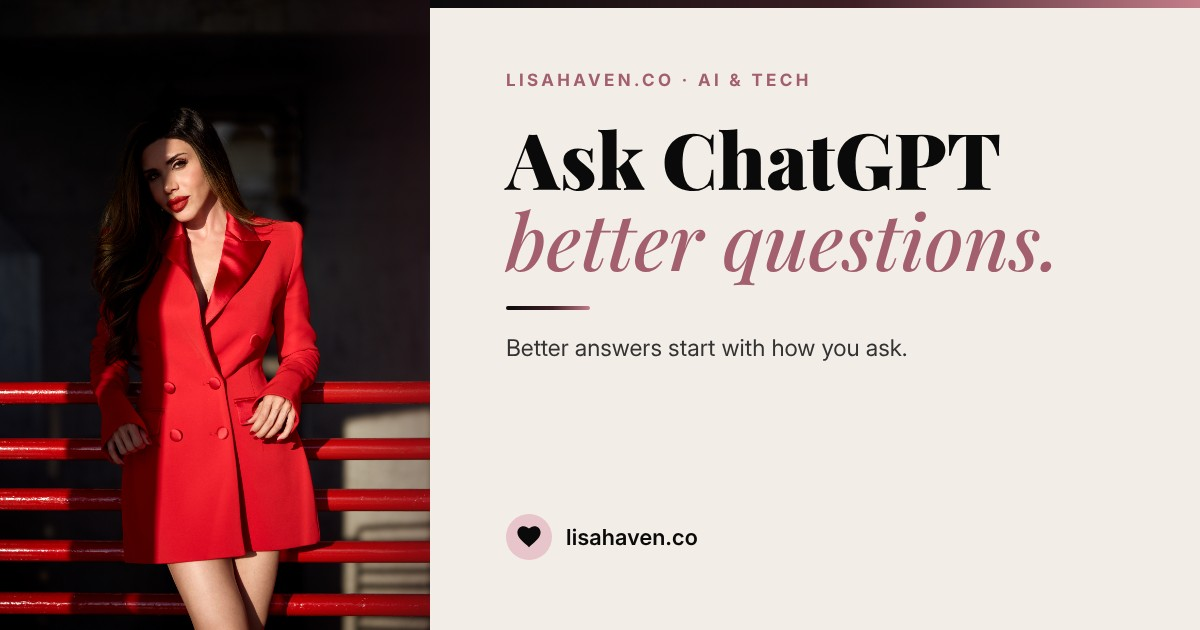
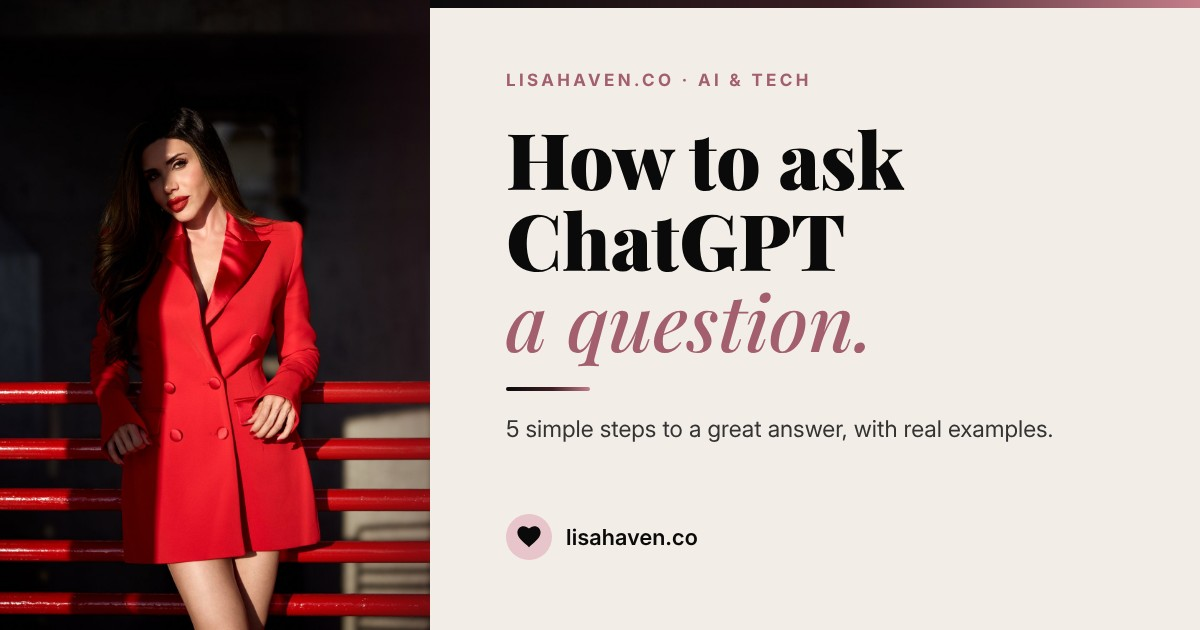
Refresh: How to Ask ChatGPT a Question (and Get a Great Answer)
Full 9 minute rewrite of the ranking ChatGPT post: 5 steps, before and after prompt boxes, chart, cheat sheet, FAQ, poll and quote. New branded cover, 4 pins and share card. Adds an optional Last Updated field so refreshed posts show a fresh date to Google.

Claude-Session: https://claude.ai/code/session_0169LMnWxYji379rbtG2jus4

diff --git a/build.js b/build.js
@@ -132,6 +132,7 @@ if (fs.existsSync(POSTS_DIR)) {
       excerpt: meta.excerpt || '',
       seoTitle: meta.seoTitle || '',
       metaDescription: meta.metaDescription || '',
+      updated: meta.updated || '',
       image: meta.image || '',
       gallery: asList(meta.gallery),
       draft: isDraft(meta),
@@ -303,7 +304,7 @@ try {
     { loc: SITE + '/privacy-policy', priority: '0.2' }
   ];
   live.filter(p => p && p.slug && !p.draft).forEach(p => {
-    urls.push({ loc: SITE + '/blog/' + encodeURIComponent(p.slug) + '/', lastmod: day(p.date), priority: '0.9' });
+    urls.push({ loc: SITE + '/blog/' + encodeURIComponent(p.slug) + '/', lastmod: day(p.updated || p.date), priority: '0.9' });
   });
   const xml = '<?xml version="1.0" encoding="UTF-8"?>\n'
     + '<urlset xmlns="http://www.sitemaps.org/schemas/sitemap/0.9">\n'
@@ -383,7 +384,7 @@ try {
         description: desc,
         image: [img],
         datePublished: published || undefined,
-        dateModified: published || undefined,
+        dateModified: iso(p.updated) || published || undefined,
         author: { '@type': 'Person', name: 'Lisa Haven', url: SITE + '/' },
         publisher: { '@type': 'Person', name: 'Lisa Haven', url: SITE + '/' },
         mainEntityOfPage: { '@type': 'WebPage', '@id': url },

diff --git a/_posts/2026-07-03-how-to-ask-chatgpt-better-questions-it-is-not-what-you-ask-it-is-how-you-ask.md b/_posts/2026-07-03-how-to-ask-chatgpt-better-questions-it-is-not-what-you-ask-it-is-how-you-ask.md
@@ -1,82 +1,214 @@
 ---
 title: "How to Ask ChatGPT a Question (and Get a Great Answer)"
-seoTitle: "How to Ask ChatGPT a Question and Get Great Answers"
-metaDescription: "Learn how to ask ChatGPT a question the right way. Use 4 simple ingredients and copy my before and after examples to get clear, useful answers every time."
-excerpt: "How to ask ChatGPT a question the right way: 4 simple ingredients and real before and after examples that get you clear, useful answers every time."
-category: Business Tips
-emoji: ✨
+category: AI & Tech
+emoji: 🧠
 date: 2026-07-03T11:43:00.000-04:00
-readTime: 5 min read
-image: /images/uploads/0i4a8457.jpg
+updated: 2026-10-28T21:30:00.000-04:00
+readTime: 9 min read
+excerpt: "How to ask ChatGPT a question the right way: 5 simple steps, real before and after prompts from my 3 companies, and a cheat sheet you can copy."
+seoTitle: "How to Ask ChatGPT a Question and Get a Great Answer"
+metaDescription: "How to ask ChatGPT a question and get a great answer: 5 simple steps, real before and after prompts from my 3 companies, and easy copy and paste examples."
+image: /images/uploads/how-to-ask-chatgpt-a-question-cover.jpg
+draft: false
 ---
-If you've ever typed a question into ChatGPT and gotten back an answer that felt generic, flat or just plain wrong, the problem is almost never the tool. It's the question. Here is the short answer on how to ask ChatGPT a question: tell it who to be, give it your situation, say exactly what you want back, and set your limits. Learning to ask this way is the fastest way I know to turn artificial intelligence from a toy into a real business partner, and most people were never taught how. I use artificial intelligence every day to run 3 companies as a mother of 3, and I built an entire platform around one belief: what matters most is HOW you ask.
+This week I asked ChatGPT how to grow my blog. I gave it my real goal, my real limits and what I was already doing. 1 of the ideas it gave back stopped me: write AI case studies for the companies whose tools I already use. I am working on that right now.
 
-## Why Your ChatGPT Answers Feel Generic
+That answer was only as good as my question. A lazy question gets you the same 10 tips everyone gets.
 
-ChatGPT and Claude respond to exactly what you give them. When you type "write me an Instagram caption," you're asking the tool to guess your brand, your audience, your tone and your goal all at once. It can't read your mind, so it averages everything out and hands you something that sounds like everybody else. Give it something vague and you'll get something vague back. Give it specifics and you'll get specifics. That's really all there is to it.
+Here is the short answer on **how to ask ChatGPT a question** and get a great answer: tell it who to be, give it your real situation, say exactly what you want back, set your limits, and let it ask you questions before it answers. That is it. 5 steps, about 30 extra seconds, and a completely different answer.
 
-Not sure which tool to ask in the first place? Read my honest [Claude vs ChatGPT comparison](https://lisahaven.co/blog/claude-vs-chatgpt/) to see which one fits your business.
+I write my own posts, I use AI to perfect them, and I use AI to design everything for my 3 companies: [VIXA](https://www.vixaapp.ai), [Havenly](https://www.havenly.co) and [LUMAPROMPT.AI](https://www.lumaprompt.ai). I ask ChatGPT and Claude questions all day long, usually in 10 minute pieces between being a mom of 3. Below is exactly how I do it, with real before and after examples you can copy.
 
-## How to Ask ChatGPT a Question: The 4 Ingredients
+## Why your ChatGPT answers feel generic
 
-Every strong prompt I write has the same 4 ingredients. First, a role: tell the tool who to be, like "act as a retail buyer for a national beauty chain." Second, context: your situation, your audience and your goal. Third, format: spell out exactly what you want back, whether that's a table, a script or 3 headline options. Fourth, constraints: word count, tone and anything it should avoid.
+If you have ever searched "ChatGPT ask question" because your answers keep missing the mark, you are in the right place. Here is the truth: ChatGPT answers what you give it. Nothing more.
 
-When I negotiate with manufacturers for [Havenly](https://www.havenly.co), my Gen Z beauty brand, I never ask "how do I negotiate." I ask, "act as a sourcing expert who has negotiated with beauty manufacturers for 20 years, I am a founder ordering my first 10,000 units, give me the 5 leverage points I have and the exact language to use for each one." Same tool, and a completely different result.
+When you type "write me an Instagram caption," you are asking it to guess your brand, your audience, your tone and your goal all at once. It cannot read your mind, so it averages everything out and hands you something that sounds like everybody else.
 
-## Before and After: A Real Example
+Vague question in, vague answer out. Specific question in, specific answer out.
 
-Weak question: "Give me marketing ideas for my app."
+Even OpenAI, the company behind ChatGPT, says the same thing in its own [prompting best practices guide](https://help.openai.com/en/articles/10032626-prompt-engineering-best-practices-for-chatgpt): be clear and specific, give it a role, and add context. The good news is you do not need to be technical to do any of this. You just need to ask like you are talking to a smart new assistant on her first day.
 
-Better question: "Act as a growth marketer who has launched consumer apps for women. My app helps women get clarity on confusing dating conversations. My audience is women ages 22 to 40 who live on TikTok and Instagram. Give me 5 launch ideas ranked by cost, with the first step for each one."
+## How to ask ChatGPT a question in 5 simple steps
 
-The second one took maybe 30 extra seconds to write, and it saves hours of back and forth. That's what you get for asking better. Want to see this formula at work at home? Here are [10 ChatGPT prompts for busy moms](https://lisahaven.co/blog/chatgpt-prompts-for-busy-moms/), ready to copy and fill in.
+Every great question I ask has the same 5 parts. Learn them once and you can use them in any AI tool.
+
+![How to ask ChatGPT a question: adding 1 sentence, "Let's think step by step," raised a model's score on math word problems from 17.7% to 78.7% in a 2022 study. The 5 steps: tell it who to be, give your real situation, say what you want back, set your limits, let it ask you first.](/images/uploads/how-to-ask-chatgpt-a-question-chart.jpg)
+
+### Step 1: Tell it who to be
+
+Start with a role. "Act as a retail buyer for a national beauty chain." "Act as a patient math tutor." "Act as a marketing expert who has launched apps for women."
+
+A role tells ChatGPT which kind of knowledge to pull from and how to talk to you. It is the fastest upgrade there is.
+
+### Step 2: Give it your real situation
+
+This is where most people stop short. Tell it who you are, who you are helping, and what you are trying to do. Use real numbers. "I am a founder ordering my first 10,000 units" is worth more than any fancy wording.
+
+### Step 3: Say exactly what you want back
+
+A list? A table? 3 options? A script you can read out loud? An email under 100 words? Say it. If you do not tell ChatGPT the format, it picks one for you, and it is usually a long wall of text.
+
+### Step 4: Set your limits
+
+Tone, length, and anything to avoid. "Warm but direct." "No jargon." "Do not suggest paid tools." Limits are what make the answer sound like it was made for you.
+
+### Step 5: Let it ask you questions first
+
+This is the move almost nobody uses, and it is my favorite. End your question with: "Before you answer, ask me any questions you need."
+
+Instead of guessing, ChatGPT will ask you 3 or 4 smart questions. You answer them, and the final answer is built on your real life instead of an average one.
+
+Here is the full formula in 1 prompt. Copy it, fill in the brackets, and save it somewhere you can find it.
+
+```prompt
+Act as [the expert you need].
+Here is my situation: [who you are, who you are helping, your goal, your real numbers].
+I want: [exactly what you want back: a list, a table, 3 options, a script, an email].
+Keep it [your tone], under [length], and do not [anything to avoid].
+Before you answer, ask me any questions you need to give me the best answer.
+```
+
+**Here is something surprising.** In a 2022 study by researchers from the University of Tokyo and Google, adding 1 short sentence to the end of a question, "Let's think step by step," raised an AI model's score on a set of math word problems from 17.7% to 78.7% ([read the study](https://arxiv.org/abs/2205.11916)). Today's ChatGPT is much smarter and often reasons on its own. But the lesson still holds: how you ask changes what you get.
+
+## Before and after: how I ask ChatGPT questions for my 3 companies
+
+These are real questions from my real work week. Look at the before, then copy the after.
+
+### Havenly: talking to a manufacturer
+
+**Before:** "How do I negotiate with a manufacturer?"
+
+**After:**
+
+```prompt
+Act as a sourcing expert who has negotiated with beauty manufacturers for 20 years.
+I am a founder ordering my first 10,000 units of a makeup remover wipe for Gen Z.
+Give me the 5 leverage points I have as a first time buyer, and the exact words to use for each one.
+Keep it friendly and confident. No threats, no bluffing.
+```
+
+The first version gets you a general article. The second gets you a script you can use on your next call.
+
+### VIXA: planning a launch
+
+**Before:** "Give me marketing ideas for my app."
+
+**After:**
+
+```prompt
+Act as a growth marketer who has launched consumer apps for women.
+My app helps women get clarity on confusing dating conversations. My audience is women ages 22 to 40 who live on TikTok and Instagram.
+Give me 5 launch ideas ranked from lowest to highest cost, with the very first step for each one.
+Show it as a table.
+```
+
+### My blog: the question behind my newest idea
+
+**Before:** "How do I grow my blog?"
+
+**After:**
+
+```prompt
+Act as a blog growth strategist for founder blogs.
+I post 5 times a week about how I use AI to run my businesses as a mom. My blog is new and I am not paying for SEO tools yet.
+Give me 10 proven ways to get more readers in the next 90 days, ranked by how much time each one takes.
+Before you answer, ask me any questions you need.
+```
+
+That is the exact kind of question that got me my idea about writing AI case studies for other companies. A real goal and real limits got me a real plan.
+
+Want 10 more fill in the blank questions like these for home and family? Grab my [ChatGPT prompts for busy moms](https://lisahaven.co/blog/chatgpt-prompts-for-busy-moms/).
 
 ## How I ask AI now: I just talk to it
 
-Here is my honest confession. These days I barely type prompts at all.
+Here is my honest confession. These days I barely type my questions at all.
 
-I am running 3 companies and raising 3 daughters, so I move fast. I jump from window to window, and I just talk to Claude, out loud, like I would talk to a business partner. Over time it has learned me. It knows how I think and what I usually need.
+I run 3 companies and raise 3 daughters, so I move fast. I jump from window to window and I just talk to AI out loud, like I would talk to a business partner. Both ChatGPT and Claude have voice options, and talking is often faster than typing.
 
-But even when I talk fast, I still use the 4 ingredients. They are just built into how I speak. My go-to move is 1 word: **assess.**
+But even when I talk fast, I still use the 5 steps. They are built into how I speak. My go to move is 1 word: **assess.**
 
 **How I used to ask:** "What does this mean?"
 
-**How I ask now:** "Assess this conversation and these screenshots. Tell me what is really going on, what I might be missing, and give me 2 ways to reply. I will make the final call."
+**How I ask now:**
 
-That 1 change does 3 things:
+```prompt
+Assess this conversation and these screenshots.
+Tell me what is really going on, what I might be missing, and give me 2 ways to reply.
+I will make the final call.
+```
 
-1. **It asks for judgment, not just information.** "Assess" tells the AI to think like an advisor, not a search engine.
+That 1 word does 3 things:
+
+1. **It asks for judgment, not just facts.** "Assess" tells AI to think like an advisor, not a search engine.
 2. **It asks for options.** 2 replies to choose from, not 1 answer to accept.
-3. **It keeps me in charge.** AI gives me the assessment. I make the decision, and I make it much faster.
+3. **It keeps me in charge.** AI gives me the read. I make the decision, and I make it faster.
 
-That is the real secret. AI does not make my decisions for me. It helps me make better ones, quicker. I use this every day for customer messages, creator questions, business choices and even my own texts.
+I use this every day for creator questions, customer messages, business choices and even my own texts. AI does not make my decisions for me. It helps me make better ones, quicker. If you are wondering which tool to talk to, here is my honest [Claude vs ChatGPT comparison](https://lisahaven.co/blog/claude-vs-chatgpt/).
 
-Try it today. Pick 1 thing on your plate, paste it in and say: "Assess this and give me 2 options."
+## What is the best way to ask ChatGPT questions after the first answer?
 
-## The Shortcut: Let Experts Write the Question for You
+The first answer is a first draft. The magic is in the follow up. ChatGPT remembers everything you said earlier in the same chat, so treat it like a conversation, not a vending machine.
 
-I'll be honest with you. Most women don't have time to become prompt experts, and they shouldn't have to. That's exactly why I built [LUMAPROMPT.AI](https://www.lumaprompt.ai), a premium prompt generator and curated library written by human industry experts and designed around how women take in information and make decisions. Every prompt is written by professionals who understand real world results. Nothing is scraped or machine averaged. It works with ChatGPT and Claude, takes the guesswork out, and lets you go straight to getting things done. You ask better questions, you get better results, and you waste a lot less time.
+Here are the 6 follow ups I use most:
 
-## Common Questions
+- **"Make it shorter."** Cuts the fluff fast.
+- **"Make it sound more like me. Here is something I wrote:"** Then paste a few lines of your own writing.
+- **"What am I missing?"** It will point out gaps you did not ask about.
+- **"Give me 3 other options."** Great when the first idea is close but not quite right.
+- **"Explain it like I am 12."** Perfect for anything technical.
+- **"Turn this into a checklist."** My favorite for anything I need to actually do.
 
-**Do I need to write long questions for ChatGPT?** Not long, just specific. 2 to 4 clear sentences with a role, context, format and limits beat a vague one liner every time.
+If your answers still sound robotic after this, my guide on [how to use AI without sounding like AI](https://lisahaven.co/blog/how-to-use-ai-without-sounding-like-ai/) shows you how to put your voice back in.
 
-**Can I ask ChatGPT a follow up question?** Yes, and you should. Treat it like a conversation. Ask it to shorten the answer, change the tone or explain a step. It remembers what you said earlier in the same chat.
+## How to ask AI better questions in any tool
 
-**Does this work in Claude too?** Yes. The same 4 ingredients work in Claude and in every other AI chat tool.
+These steps are not just for ChatGPT. They work in Claude, Gemini and any other AI chat tool, because every one of them answers what you give it. Keep this cheat sheet handy.
 
-## Ask Better, Build Faster
+| Step | Ask yourself | Example |
+|---|---|---|
+| 1. Who to be | Which expert do I need? | "Act as a patient tutor" |
+| 2. Your situation | What would a new assistant need to know? | "I have 3 kids and 20 minutes" |
+| 3. What you want back | What shape should the answer take? | "A table with 3 options" |
+| 4. Your limits | What tone and length? What to avoid? | "Under 100 words, no jargon" |
+| 5. Let it ask first | What might it need to know that I forgot? | "Ask me any questions first" |
 
-You don't need to be technical to get world class answers from artificial intelligence. You need a role, context, a format and constraints, or someone who has already written the question for you. Try one prompt today and see the difference for yourself. A great place to practice is your inbox: here is [how to use AI to answer customer emails](https://lisahaven.co/blog/how-to-use-ai-to-answer-customer-emails/) in your own voice. Or put these 4 ingredients to work on your privacy with my guide on [how to remove your address from the internet with AI](https://lisahaven.co/blog/remove-your-address-from-the-internet/). If you want the shortcut, head to [www.lumaprompt.ai](https://www.lumaprompt.ai) and let expert written prompts do the heavy lifting. And for more real time lessons from building 3 companies, subscribe at [www.lisahaven.co](https://lisahaven.co/).
+1 more tip: keep your best questions. When a question gets you a great answer, save it in your notes. Next time, you only change the brackets.
 
-Now tell me in the comments: **what is the 1 thing you will ask AI to assess for you this week?** I read every single one.
+## Tools I use for this
 
-## Keep reading
+*Some links in this post may be affiliate links, which means I may earn a small commission at no extra cost to you. I only share tools I really use.*
 
-- [Claude vs ChatGPT: Which AI Should You Use for Business?](/blog/claude-vs-chatgpt/)
-- [How to Use AI Without Sounding Like AI](/blog/how-to-use-ai-without-sounding-like-ai/)
-- [How to Use ChatGPT to Meal Plan for the Week](/blog/how-to-use-chatgpt-to-meal-plan/)
+- **[ChatGPT](https://chatgpt.com):** quick answers, images for my blog and talking out loud. The free version works for every prompt in this post.
+- **[Claude](https://claude.ai):** my go to for writing, planning and running the day to day of my businesses.
+- **[Notion](https://www.notion.com):** where I keep my favorite questions and prompts, so they are 1 tap away.
 
-> "Ask and it will be given to you; seek and you will find; knock and the door will be opened to you."
->
-> ~ Matthew 7:7
+## Your next step
+
+Pick 1 thing on your plate today. Open ChatGPT, paste in the 5 step formula above, and ask it properly. Then add "Before you answer, ask me any questions you need." Watch what happens.
+
+**Do not want to write every question from scratch?** That is exactly why I built [LUMAPROMPT.AI](https://www.lumaprompt.ai/?ref=blog-how-to-ask-chatgpt-a-question): a library of ready made prompts written by real human experts, designed around the way women think and decide. They work in ChatGPT and Claude, so you can skip the guesswork and go straight to getting things done.
+
+## FAQ
+
+**Do I need to write long questions for ChatGPT?**
+Not long, just specific. 2 to 5 clear sentences with a role, your situation, the format you want and your limits will beat a vague 1 liner every time.
+
+**How do I ask ChatGPT a quick question without messing up my main chat?**
+Open a new chat for anything off topic, or use a temporary chat, which does not save to your history. Keep 1 chat per project so ChatGPT stays focused on that work.
+
+**Does this work in Claude and other AI tools?**
+Yes. The same 5 steps work in Claude, Gemini and every other AI chat tool. And yes, every prompt in this post works on the free version of ChatGPT.
+
+## Before you go: quick poll
+
+Which step are you trying first? Vote in the comments with your letter:
+
+- **A.** Tell it who to be
+- **B.** Give it my real situation
+- **C.** Let it ask me questions first
+- **D.** Talk to it out loud and say "assess"
+
+And tell me: **what is the 1 question you are going to ask ChatGPT properly this week?** I read every single comment.
+
+> "Quality questions create a quality life." Tony Robbins
